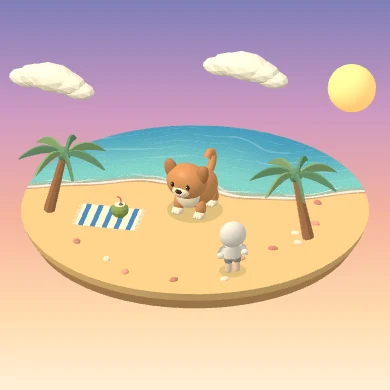
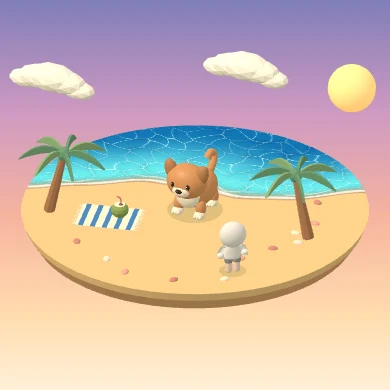
Render moving caustic light on the coast

Changed region(s): [[0.0923, 0.3077, 0.9231, 0.5231]]

diff --git a/app/coast.js b/app/coast.js
@@ -31,6 +31,27 @@ export function makeCoast(scene,theme,obstacles) {
         return fract(sin(dot(p,vec2(127.1,311.7)))*43758.5453);
       }
 
+      // The gap between the two nearest moving points traces the caustic network.
+      vec2 causticField(vec2 point,float time) {
+        vec2 cell=floor(point);
+        vec2 local=fract(point);
+        float nearest=8.0;
+        float second=8.0;
+        for (int y=-1;y<=1;y++) {
+          for (int x=-1;x<=1;x++) {
+            vec2 offset=vec2(float(x),float(y));
+            vec2 id=cell+offset;
+            vec2 phase=6.28318*vec2(grain(id),grain(id+vec2(21.0,11.0)));
+            vec2 center=.5+.29*sin(phase+time*vec2(.65,.49));
+            vec2 delta=offset+center-local;
+            float distanceSquared=dot(delta,delta);
+            second=min(second,max(nearest,distanceSquared));
+            nearest=min(nearest,distanceSquared);
+          }
+        }
+        return vec2(sqrt(second)-sqrt(nearest),nearest);
+      }
+
       void main() {
         float x=ground.x;
         float shore=ground.y+.38*x-.32*sin(x*1.05)+1.2;
@@ -39,21 +60,22 @@ export function makeCoast(scene,theme,obstacles) {
         if (depth<-.15) discard;
 
         vec3 wetSand=vec3(.84,.66,.49);
-        vec3 shallow=vec3(.53,.84,.79);
-        vec3 deep=vec3(.27,.61,.74);
+        vec3 shallow=vec3(.40,.86,.86);
+        vec3 deep=vec3(.047,.40,.65);
         vec3 color=mix(wetSand,shallow,smoothstep(-.11,.43,depth));
-        color=mix(color,deep,smoothstep(.42,3.8,depth));
+        color=mix(color,deep,smoothstep(.32,3.15,depth));
 
         float fleck=grain(floor(ground*90.0));
         color+=(fleck-.5)*.032;
-        float drift=clock*1.45;
-        float crest=sin(depth*10.0+sin(x*2.0+drift*.35)*1.3+
-                        sin(x*4.6+depth*2.7)*.42-drift);
-        float crossWave=sin(depth*15.0-x*2.2+sin(x*3.1+depth*2.1)*.8-drift*.64);
-        float patches=smoothstep(-.36,.83,sin(x*1.55+depth*3.0)+.38*sin(x*5.2-depth));
-        float ripples=smoothstep(.83,.985,crest)*patches*.24;
-        ripples+=smoothstep(.94,.998,crossWave)*(1.0-patches)*.13;
-        color=mix(color,vec3(.83,.96,.98),ripples*smoothstep(.4,1.3,depth));
+        vec2 point=ground*vec2(1.75,2.15);
+        point+=.24*sin(point.yx*2.3+clock*vec2(.63,-.53));
+        vec2 field=causticField(point,clock);
+        float shimmer=.72+.28*sin(point.x*1.3+point.y*1.7-clock*.8);
+        float glow=1.0-smoothstep(.035,.17,field.x);
+        float line=1.0-smoothstep(.012,.049,field.x);
+        float visibleLight=smoothstep(.19,.61,depth)*(1.0-.35*smoothstep(1.1,3.1,depth));
+        color+=vec3(.035,.095,.09)*(1.0-smoothstep(.1,.65,field.y))*visibleLight;
+        color=mix(color,vec3(.76,.99,1.0),(glow*.27+line*.62)*visibleLight*shimmer);
 
         float surfWidth=.075+.054*(.5+.5*sin(x*4.3+clock*.9));
         float lip=1.0-smoothstep(.018,surfWidth,abs(depth-.031));

diff --git a/sw.js b/sw.js
@@ -1,10 +1,10 @@
-const CACHE='annyeong-v95';
+const CACHE='annyeong-v96';
 const APP_FILES=[
-  './','./manifest.webmanifest?v=7','./app/style.css?v=94','./app/main.js?v=95','./app/photos.js?v=39',
-  './app/annyeong-wordmark.webp','./app/paw-cursor-pink.png','./app/fonts/nanum-pen-script.woff2','./app/treats.js','./app/treat-meat.png','./app/treat-fish.png','./app/friends.js?v=80','./app/account.js?v=80','./app/icons.svg?v=22','./app/data.js','./app/data.js?v=18','./app/avatar.js?v=35','./app/scene.js?v=95','./app/vendor/three.module.min.js',
+  './','./manifest.webmanifest?v=7','./app/style.css?v=94','./app/main.js?v=96','./app/photos.js?v=39',
+  './app/annyeong-wordmark.webp','./app/paw-cursor-pink.png','./app/fonts/nanum-pen-script.woff2','./app/treats.js','./app/treat-meat.png','./app/treat-fish.png','./app/friends.js?v=80','./app/account.js?v=80','./app/icons.svg?v=22','./app/data.js','./app/data.js?v=18','./app/avatar.js?v=35','./app/scene.js?v=96','./app/vendor/three.module.min.js',
   './app/owner-model.js?v=43','./app/owner-colors.js','./app/models/hood_character_cylindrical_legs.glb','./app/vendor/GLTFLoader.js','./app/vendor/BufferGeometryUtils.js',
   './app/welcome-pets/dog.webp','./app/welcome-pets/cat.webp','./app/welcome-pets/hamster.webp','./app/welcome-pets/parrot.webp','./app/welcome-pets/lizard.webp',
-  './app/coast.js?v=95','./app/theme-catalog.js','./app/theme-catalog.js?v=95','./app/extra-themes.js?v=95','./app/walk-preview.webp?v=81','./app/clouds-preview.webp','./app/stars-preview.webp','./app/coast-preview.webp?v=95','./app/food-intro-cake.webp','./app/food-game.js?v=77','./app/items.js','./app/item-names.js',
+  './app/coast.js?v=96','./app/theme-catalog.js','./app/theme-catalog.js?v=96','./app/extra-themes.js?v=95','./app/walk-preview.webp?v=81','./app/clouds-preview.webp','./app/stars-preview.webp','./app/coast-preview.webp?v=96','./app/food-intro-cake.webp','./app/food-game.js?v=77','./app/items.js','./app/item-names.js',
   './app/item-ball.png','./app/item-bath.png','./app/item-vacuum.png','./app/item-tube.png','./app/item-bag.png','./app/item-gift-0.png','./app/item-gift-1.png','./app/item-gift-2.png',
   './app/vendor/jquery.min.js','./app/icon-drawing-192.png','./app/icon-heart-32.png','./app/icon-heart-192.png','./app/icon-heart-512.png'
 ];

diff --git a/app/main.js b/app/main.js
@@ -1,4 +1,4 @@
-import {themes,themeId,purchasedThemes} from './theme-catalog.js?v=95';
+import {themes,themeId,purchasedThemes} from './theme-catalog.js?v=96';
 import {createFoodGame} from './food-game.js?v=77';
 import {ownerColors as cleanOwnerColors} from './owner-colors.js';
 import {itemShape} from './item-names.js';
@@ -33,7 +33,7 @@ const random=values => values[Math.floor(Math.random()*values.length)];
 const dayKey=(date=new Date()) => [date.getFullYear(),date.getMonth()+1,date.getDate()].map(value => String(value).padStart(2,'0')).join('-');
 const civilDate=key => Date.parse(key+'T00:00:00Z');
 const tags=value => [...new Set(value.split(',').map(item => item.trim()).filter(Boolean))];
-const scenes=import('./scene.js?v=95').catch(() => null);
+const scenes=import('./scene.js?v=96').catch(() => null);
 let state, draft, addingFriend=false;
 let riding=false;
 let page, scene, sceneRevision=0, replyTimer, photoUrl, installPrompt, modeDates={};

diff --git a/app/theme-catalog.js b/app/theme-catalog.js
@@ -1,6 +1,6 @@
 export const themes={
   meadow:{name:'초원',price:0},
-  coast:{name:'노을 바다',price:50,preview:'coast-preview.webp?v=95',alt:'구름이 떠 있는 노을 아래 줄무늬 돗자리가 깔린 해변'},
+  coast:{name:'노을 바다',price:50,preview:'coast-preview.webp?v=96',alt:'구름이 떠 있는 노을 아래 줄무늬 돗자리가 깔린 해변'},
   walk:{name:'동네 산책길',price:50,preview:'walk-preview.webp?v=81',alt:'가로등과 벤치가 있는 벽돌 산책로'},
   clouds:{name:'구름 위',price:50,alt:'하늘 위에 떠 있는 폭신한 구름'},
   stars:{name:'별빛 초원',price:50,alt:'별과 달이 빛나는 밤의 초원'}

diff --git a/app/scene.js b/app/scene.js
@@ -3,7 +3,7 @@ import * as T from './vendor/three.module.min.js';
 import { createAvatar } from './avatar.js?v=35';
 import { createMeatTreat, createFishTreat } from './treats.js';
 import {createItem} from './items.js';
-import {coast,makeCoast} from './coast.js?v=95';
+import {coast,makeCoast} from './coast.js?v=96';
 import { meadow } from './data.js';
 import {buildOwnerModel} from './owner-model.js?v=43';
 import {ownerColors as cleanColors} from './owner-colors.js';

diff --git a/index.php b/index.php
@@ -11,7 +11,7 @@
   <link rel="stylesheet" href="./app/style.css?v=94">
   <title>안녕</title>
   <script defer src="./app/vendor/jquery.min.js"></script>
-  <script type="module" src="./app/main.js?v=95"></script>
+  <script type="module" src="./app/main.js?v=96"></script>
 </head>
 <body>
 <audio id="meadow-music" src="./app/meadow-music.m4a" preload="none" loop></audio>
